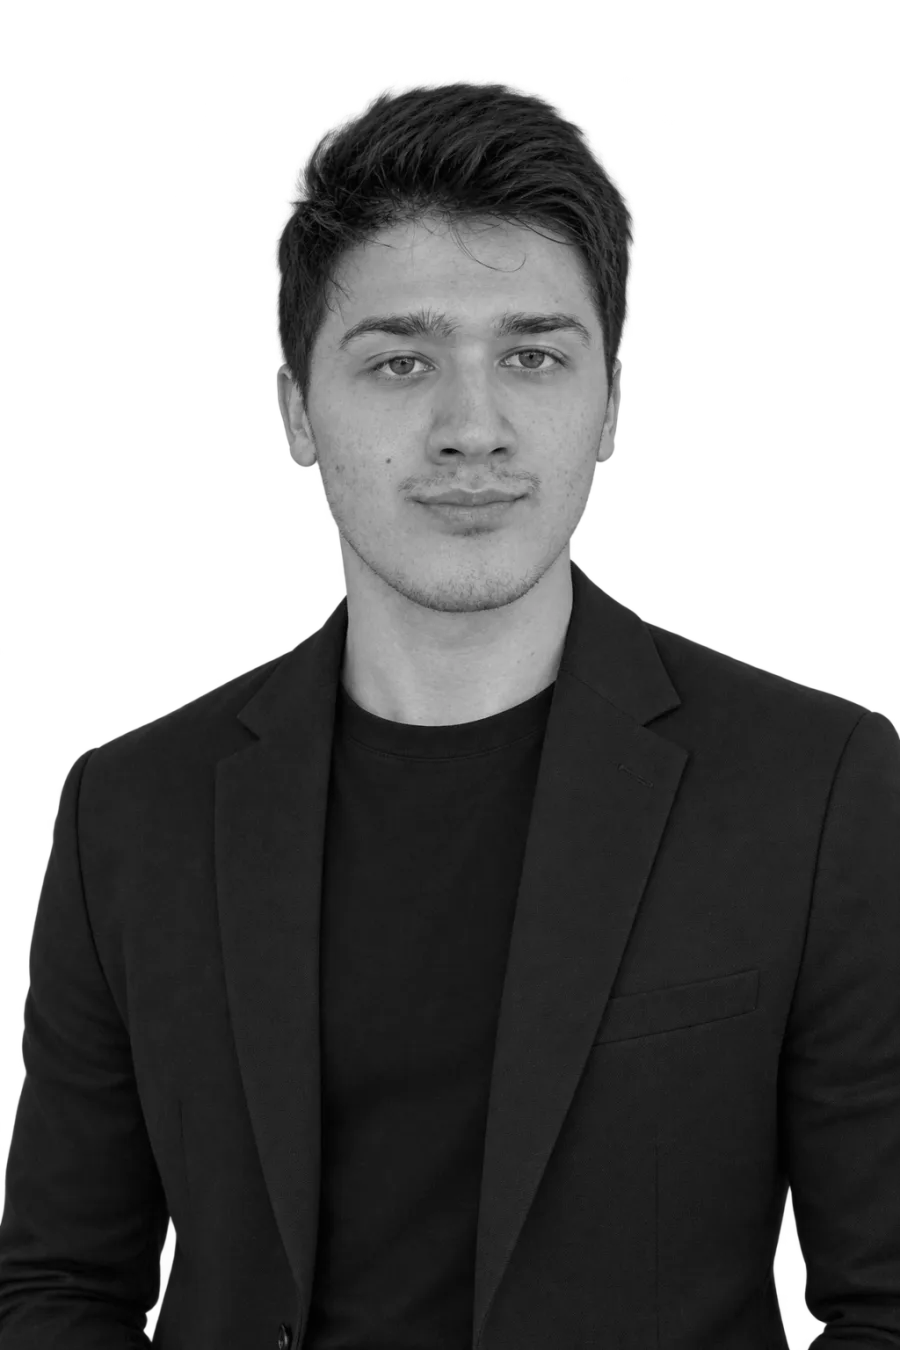
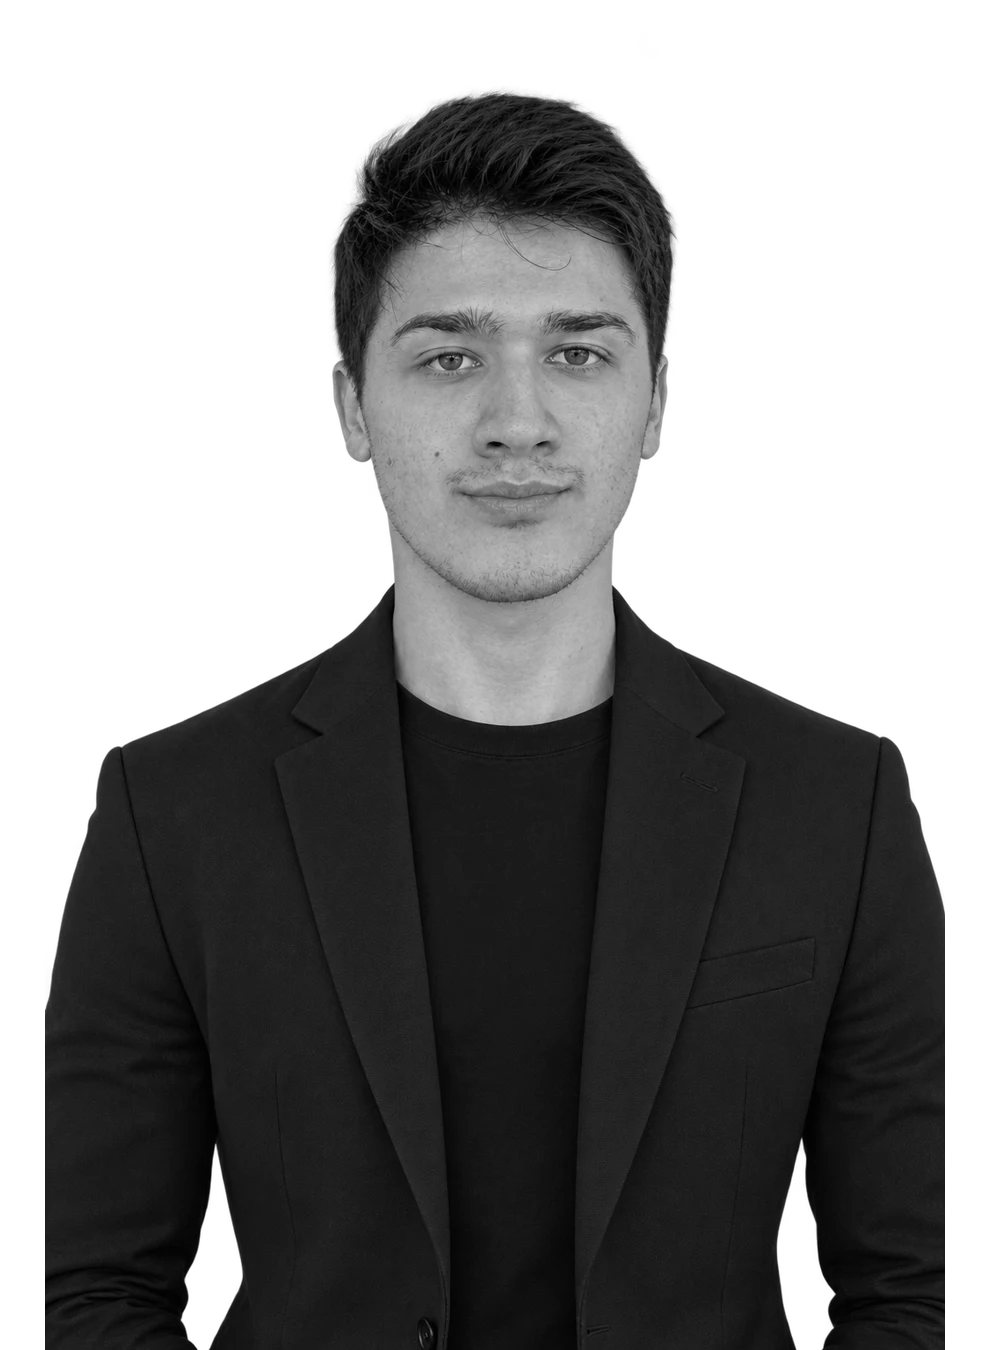
Swap portrait photo, add margin

diff --git a/css/home.css b/css/home.css
@@ -345,7 +345,7 @@
     --hero-portrait-min-height-landscape: 450px;
     --hero-portrait-overflow-top: 42px;
     --hero-portrait-padding-inline: 70px;
-    --hero-portrait-aspect-ratio: 0.6667;
+    --hero-portrait-aspect-ratio: 0.7333;
     --hero-portrait-name-right-limit: clamp(-135px, -10.47svh, -47px);
     --hero-portrait-name-screen-margin: 40px;
     --hero-info-lang-offset: 0px;
